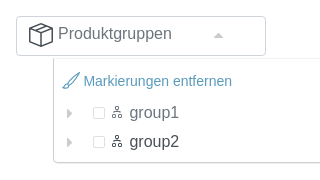
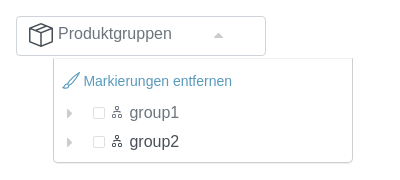
[chg] update screenshots4Doc scripts
Former-commit-id: 092d520481409022e7449ecd2b08141a10636069

diff --git a/opsiweb/screenshots4Docs/take_screenshots/productproperties.test.screenshot.js b/opsiweb/screenshots4Docs/take_screenshots/productproperties.test.screenshot.js
@@ -6,7 +6,7 @@ const de = require('../../uib-components/locale/de.json')
 test('Product Properties', async ({ page }) => {
   await callStoryId(page, 'view-v-product-property', 'v-product-property')
   const component = await page.locator('[data-testid="VProductProperty"]')
-  await page.setViewportSize({ width: 900, height: 370 })
+  await page.setViewportSize({ width: 900, height: 320 })
   await (new Promise(resolve => setTimeout(resolve, 1000)))
   await page.evaluate((val) => { document.querySelector('.tableheader_title').innerHTML = val }, en['title.config'])
   await page.evaluate((val) => { document.querySelector('.property').innerHTML = val }, en['title.properties'])

diff --git a/opsiweb/screenshots4Docs/take_screenshots/productgroups.test.screenshot.js b/opsiweb/screenshots4Docs/take_screenshots/productgroups.test.screenshot.js
@@ -5,7 +5,7 @@ const de = require('../../uib-components/locale/de.json')
 test('Product Groups', async ({ page }) => {
   await callStoryId(page, 'tree-ts-product-groups', 'ts-product-group')
   await page.click('[data-testid="TSProductGroups"]')
-  await page.setViewportSize({ width: 320, height: 180 })
+  await page.setViewportSize({ width: 400, height: 180 })
   await (new Promise(resolve => setTimeout(resolve, 1000)))
   await page.evaluate((val) => { document.querySelector('.vue-treeselect__placeholder').innerHTML = val }, en['treeselect.prodGroups'])
   await page.evaluate((val) => { document.querySelector('.clearButton').innerHTML = val }, en['table.selection.clear'])

diff --git a/opsiweb/screenshots4Docs/take_screenshots/clientgroups.test.screenshot.js b/opsiweb/screenshots4Docs/take_screenshots/clientgroups.test.screenshot.js
@@ -5,7 +5,7 @@ const de = require('../../uib-components/locale/de.json')
 test('ClientGroups', async ({ page }) => {
   await callStoryId(page, 'tree-ts-host-groups', 'ts-host-groups')
   await page.click('[data-testid="TSHostGroups"]')
-  await page.setViewportSize({ width: 320, height: 210 })
+  await page.setViewportSize({ width: 400, height: 210 })
   await (new Promise(resolve => setTimeout(resolve, 1000)))
   await page.evaluate((val) => { document.querySelector('.vue-treeselect__placeholder').innerHTML = val }, en['treeselect.clientGroups'])
   await page.evaluate((val) => { document.querySelector('.clearButton').innerHTML = val }, en['table.selection.clear'])

diff --git a/opsiweb/screenshots4Docs/take_screenshots/serverstreeselect.test.screenshot.js b/opsiweb/screenshots4Docs/take_screenshots/serverstreeselect.test.screenshot.js
@@ -5,7 +5,7 @@ const de = require('../../uib-components/locale/de.json')
 test('Servers Treeselect', async ({ page }) => {
   await callStoryId(page, 'tree-ts-depots', 'ts-depots')
   await page.click('[data-testid="TSDepots"]')
-  await page.setViewportSize({ width: 320, height: 230 })
+  await page.setViewportSize({ width: 400, height: 230 })
   await (new Promise(resolve => setTimeout(resolve, 1000)))
   await page.evaluate((val) => { document.querySelector('.vue-treeselect__placeholder').innerHTML = val }, en['title.depots'])
   await page.evaluate((val) => { document.querySelector('.clearButton').innerHTML = val }, en['table.selection.clear'])

diff --git a/opsiweb/screenshots4Docs/take_screenshots/productdependencies.test.screenshot.js b/opsiweb/screenshots4Docs/take_screenshots/productdependencies.test.screenshot.js
@@ -6,7 +6,7 @@ const de = require('../../uib-components/locale/de.json')
 test('Product Dependencies', async ({ page }) => {
   await callStoryId(page, 'view-v-product-property', 'v-product-property')
   await page.click('.nav-tabs .nav-link:not(.active)')
-  await page.setViewportSize({ width: 900, height: 170 })
+  await page.setViewportSize({ width: 900, height: 90 })
   await (new Promise(resolve => setTimeout(resolve, 1000)))
   const component = await page.locator('[data-testid="VProductProperty"]')
   await page.evaluate((val) => { document.querySelector('.tableheader_title').innerHTML = val }, en['title.config'])

diff --git a/opsiweb/screenshots4Docs/take_screenshots/clientlogs.test.screenshot.js b/opsiweb/screenshots4Docs/take_screenshots/clientlogs.test.screenshot.js
@@ -4,7 +4,7 @@ const en = require('../../uib-components/locale/en.json')
 const de = require('../../uib-components/locale/de.json')
 test('Client Logs', async ({ page }) => {
   await callStoryId(page, 'view-v-clients-log', 'v-clients-log')
-  await page.setViewportSize({ width: 900, height: 550 })
+  await page.setViewportSize({ width: 900, height: 510 })
   await (new Promise(resolve => setTimeout(resolve, 1000)))
   await page.evaluate((val) => { document.querySelector('.filter_logs').placeholder = val }, en['form.filter.logs'])
   await page.screenshot({ path: './screenshots/en/opsi-webgui_clientlogs.png' })

diff --git a/opsiweb/screenshots4Docs/take_screenshots/theme.test.screenshot.js b/opsiweb/screenshots4Docs/take_screenshots/theme.test.screenshot.js
@@ -4,8 +4,8 @@ const { callStoryId } = require('../../uib-components/.utils/playwright/pw-story
 test('Theme', async ({ page }) => {
   await callStoryId(page, 'dropdown-dd-theme', 'dd-theme')
   await page.click('[data-testid="DropdownDDTheme"] .btn')
+  await page.setViewportSize({ width: 280, height: 160 })
   await (new Promise(resolve => setTimeout(resolve, 1000)))
-  await page.setViewportSize({ width: 320, height: 150 })
   await page.screenshot({ path: './screenshots/en/opsi-webgui_theme.png' })
   await page.screenshot({ path: './screenshots/de/opsi-webgui_theme.png' })
 })

diff --git a/opsiweb/screenshots4Docs/take_screenshots/language.test.screenshot.js b/opsiweb/screenshots4Docs/take_screenshots/language.test.screenshot.js
@@ -5,7 +5,7 @@ test('Language', async ({ page }) => {
   await callStoryId(page, 'dropdown-dd-lang', 'dd-lang')
   const component = await page.locator('[data-testid="DropdownDDLang"]')
   await component.click()
-  await page.setViewportSize({ width: 320, height: 160 })
+  await page.setViewportSize({ width: 280, height: 160 })
   await (new Promise(resolve => setTimeout(resolve, 1000)))
   await page.screenshot({ path: './screenshots/en/opsi-webgui_language.png' })
   await page.screenshot({ path: './screenshots/de/opsi-webgui_language.png' })

diff --git a/opsiweb/screenshots4Docs/take_screenshots/quicksave.test.screenshot.js b/opsiweb/screenshots4Docs/take_screenshots/quicksave.test.screenshot.js
@@ -11,7 +11,7 @@ test('Quick Save', async ({ page }) => {
     clip: {
       x: 5,
       y: 55,
-      width: 330,
+      width: 350,
       height: 60
     }
   })
@@ -21,7 +21,7 @@ test('Quick Save', async ({ page }) => {
     clip: {
       x: 5,
       y: 55,
-      width: 330,
+      width: 350,
       height: 60
     }
   })
